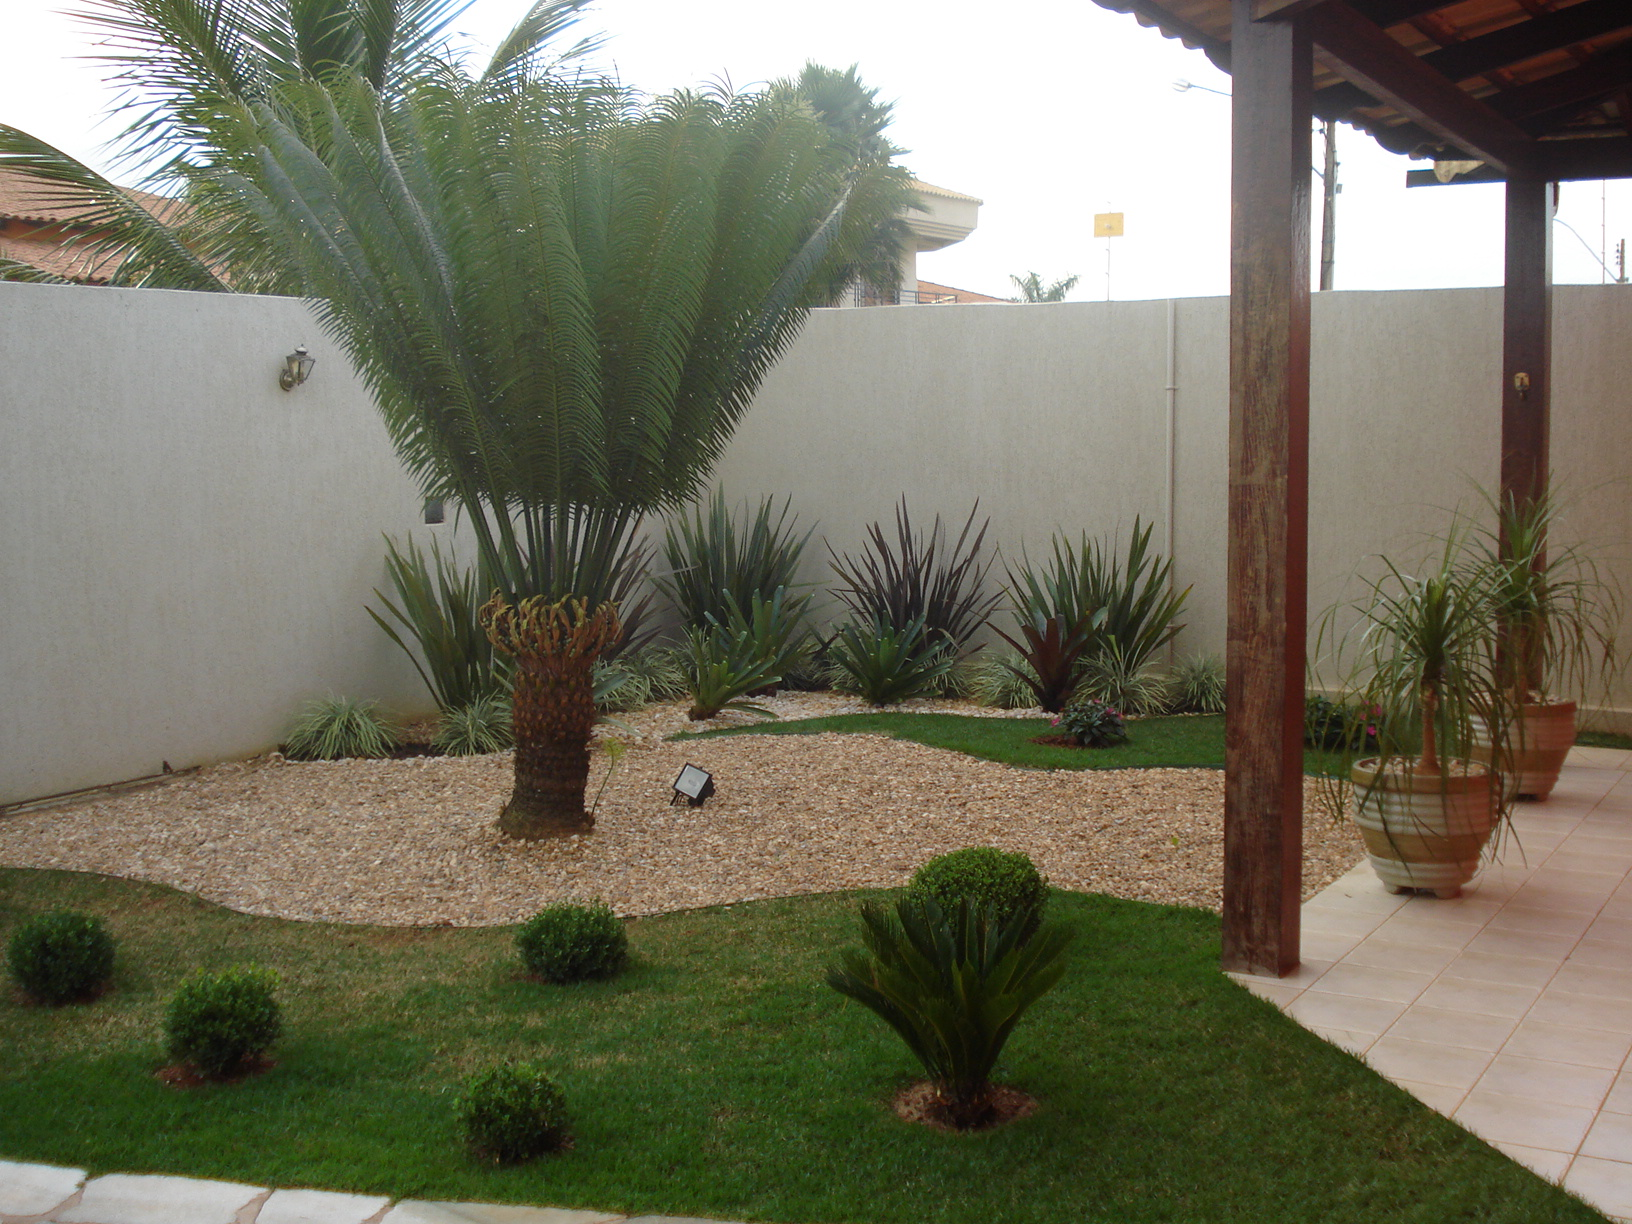
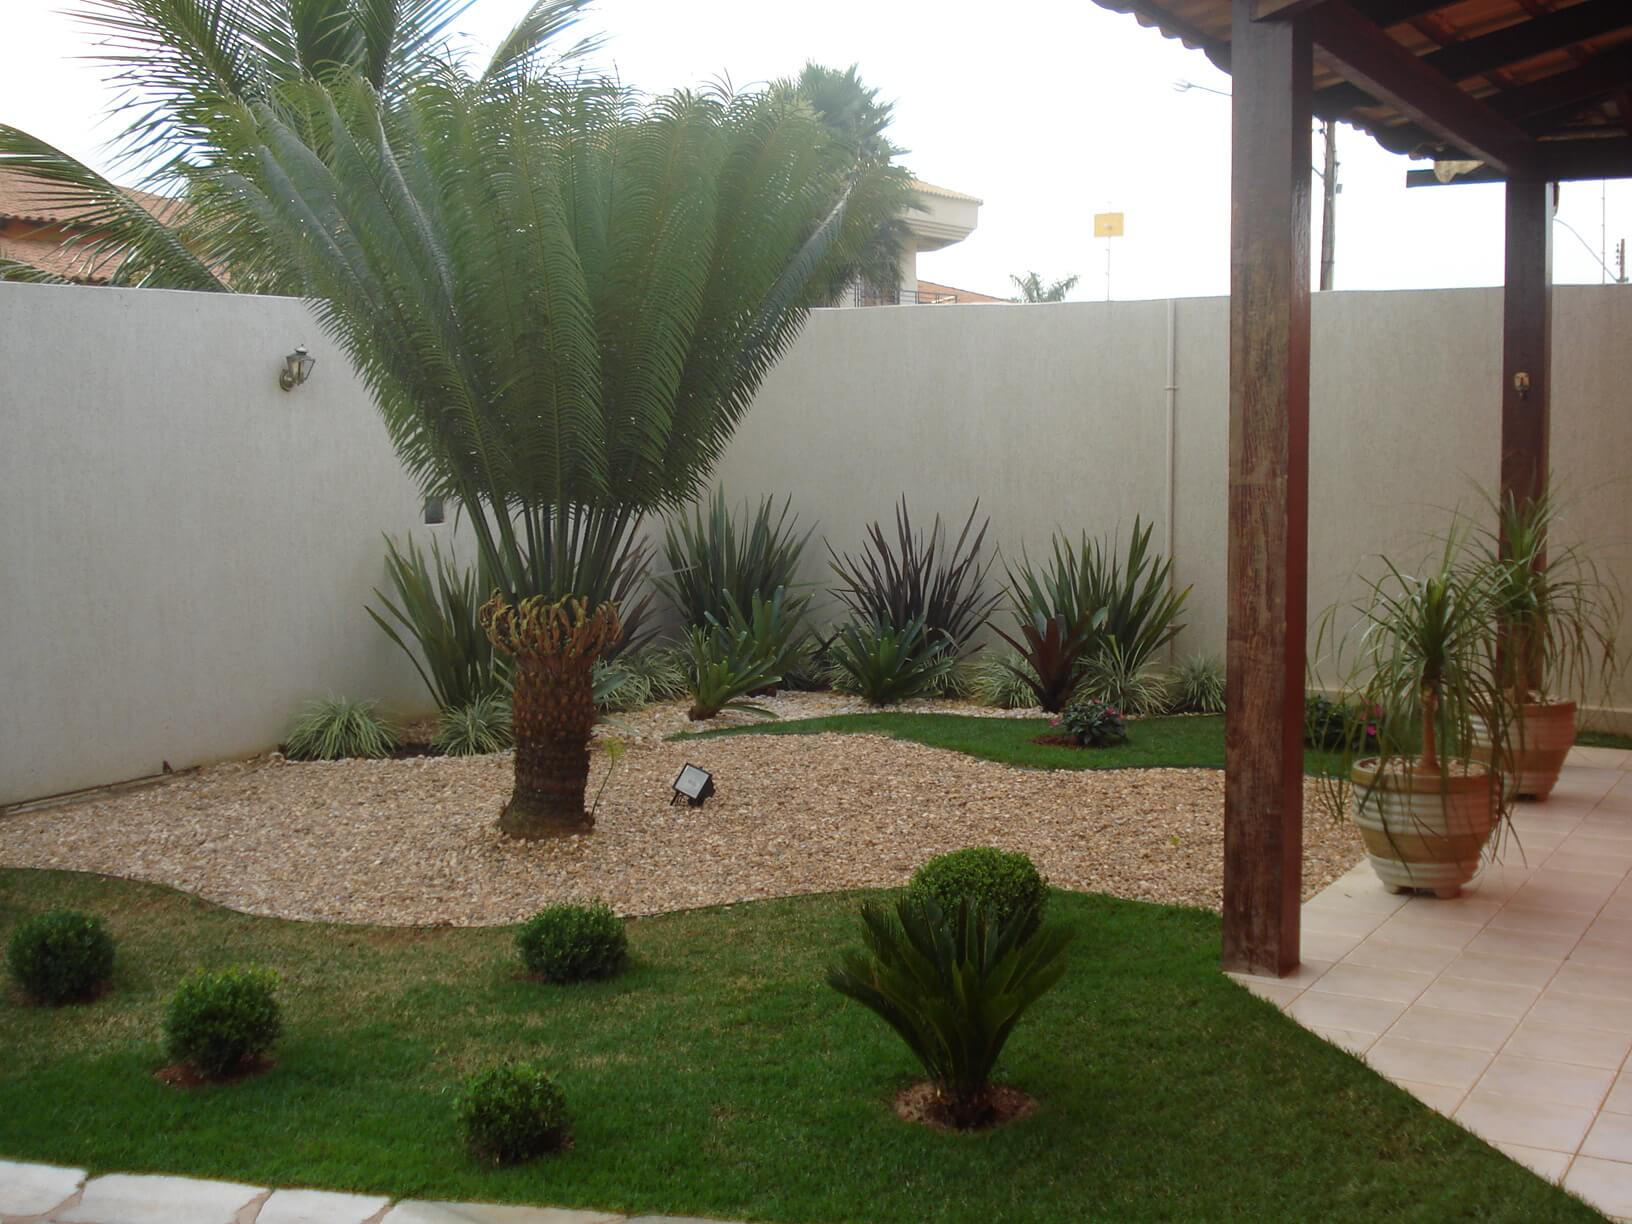
Redimensionamento das imagens

Changed region(s): [[0.0938, 0.0, 0.1562, 0.1552], [0.2812, 0.031, 0.375, 0.0931], [0.25, 0.0, 0.2812, 0.0621]]

diff --git a/html5up/empresa.html b/html5up/empresa.html
@@ -14,7 +14,7 @@
 		<!--[if lte IE 9]><link rel="stylesheet" href="assets/css/ie9.css" /><![endif]-->
 		<link rel="stylesheet" href="assets/css/estilo.css" />		
 		
-		<script src="assets/js/jquery.min.js"></script>
+		<script async src="assets/js/jquery.min.js"></script>
 		
 		<!-- Magnific Popup core CSS file -->
 		<link rel="stylesheet" href="assets/magnific-popup/magnific-popup.css">
@@ -87,12 +87,12 @@
 										<div class="row bxslider galeria-cases">
 												<div>
 													<a href="images/cases/jardim01.jpg">
-														<img src="images/cases/jardim01.jpg" alt="" class="teste" />
+														<img src="images/cases/t/jardim01.jpg" alt="" />
 													</a>
 												</div>	
 												<div>
 													<a href="images/cases/jardim02.jpg" >
-														<img src="images/cases/jardim02.jpg" alt="" />
+														<img src="images/cases/t/jardim02.jpg" alt="" />
 													</a>
 												</div>
 												<div>
@@ -172,17 +172,17 @@
 												</div>
 												<div>
 													<a href="images/cases/jardim18.jpg">
-														<img src="images/cases/jardim18.jpg" alt="" />
+														<img src="images/cases/t/jardim18.jpg" alt="" />
 													</a>
 												</div>
 												<div>
 													<a href="images/cases/jardim19.jpg">
-														<img src="images/cases/jardim19.jpg" alt="" />
+														<img src="images/cases/t/jardim19.jpg" alt="" />
 													</a>
 												</div>
 												<div>
 													<a href="images/cases/jardim20.jpg">
-														<img src="images/cases/jardim20.jpg" alt="" />
+														<img src="images/cases/t/jardim20.jpg" alt="" />
 													</a>
 												</div>								
 											</div>

diff --git a/html5up/gramas.html b/html5up/gramas.html
@@ -69,31 +69,31 @@
 										<div class="4u 6u(tablet) 12u(mobile)">
 											<h3>Grama Esmeralda</h3>
 											<a href="gramas/esmeralda.html" class="bordered-feature-image">
-												<img src="images/gramas/gramaEsmeralda.jpg" alt="" />
+												<img src="images/gramas/t/gramaEsmeralda.jpg" alt="" />
 											</a>
 										</div>
 										<div class="4u 6u(tablet) 12u(mobile)">
 											<h3>Grama Sempre Verde</h3>
 											<a href="gramas/sempreVerde.html" class="bordered-feature-image">	
-												<img src="images/gramas/gramaSempreVerde.jpg" alt="" />
+												<img src="images/gramas/t/gramaSempreVerde.jpg" alt="" />
 											</a>
 										</div>
 										<div class="4u 6u(tablet) 12u(mobile)">
 											<h3>Grama Coreana</h3>
 											<a href="gramas/coreana.html" class="bordered-feature-image">
-												<img src="images/gramas/gramaCoreana.jpg" alt="" />
+												<img src="images/gramas/t/gramaCoreana.jpg" alt="" />
 											</a>
 										</div>
 										<div class="4u 6u(tablet) 12u(mobile)">
 											<h3>Grama Preta</h3>
 											<a href="gramas/preta.html" class="bordered-feature-image">
-												<img src="images/gramas/gramaPreta.jpg" alt="" />
+												<img src="images/gramas/t/gramaPreta.jpg" alt="" />
 											</a>
 										</div>
 										<div class="4u 6u(tablet) 12u(mobile)">
 											<h3>Grama Amendoim</h3>
 											<a href="gramas/amendoim.html" class="bordered-feature-image">
-												<img src="images/gramas/gramaAmendoim.jpg" alt="" />
+												<img src="images/gramas/t/gramaAmendoim.jpg" alt="" />
 											</a>
 										</div>
 									</div>

diff --git a/html5up/index.html b/html5up/index.html
@@ -8,15 +8,15 @@
 		<meta http-equiv="Content-Type" content="text/html; charset=UTF-8">
 		<meta name="description" content="Projetos e execução de jardinagem, venda e colocação de gramas esmeralda, sempre verde, coreana, grama 				preta, barro adubado e adubo.">		
 		<meta name="title" content="Grama Forte">
-		<link rel="stylesheet" href="assets/css/main.css" />
-		<link rel="stylesheet" href="assets/css/estilo.css" />
 		<style>			
 			#map-canvas {
 				width: 100%;
 				height: 350px;
 			}
 		</style>
-		<script src="https://maps.googleapis.com/maps/api/js"></script>
+		<script async src="https://maps.googleapis.com/maps/api/js"></script>
+		<link rel="stylesheet" href="assets/css/main.css" />
+		<link rel="stylesheet" href="assets/css/estilo.css" />
 	</head>
 	<body>
 		<div id="page-wrapper">

diff --git a/html5up/contato.html b/html5up/contato.html
@@ -31,7 +31,7 @@
 				height: 350px;
 			}
 		</style>
-		<script type="text/javascript" src="https://maps.googleapis.com/maps/api/js"></script>
+		<script async type="text/javascript" src="https://maps.googleapis.com/maps/api/js"></script>
 	</head>
 	<body class="subpage">	
 		<div id="page-wrapper">
